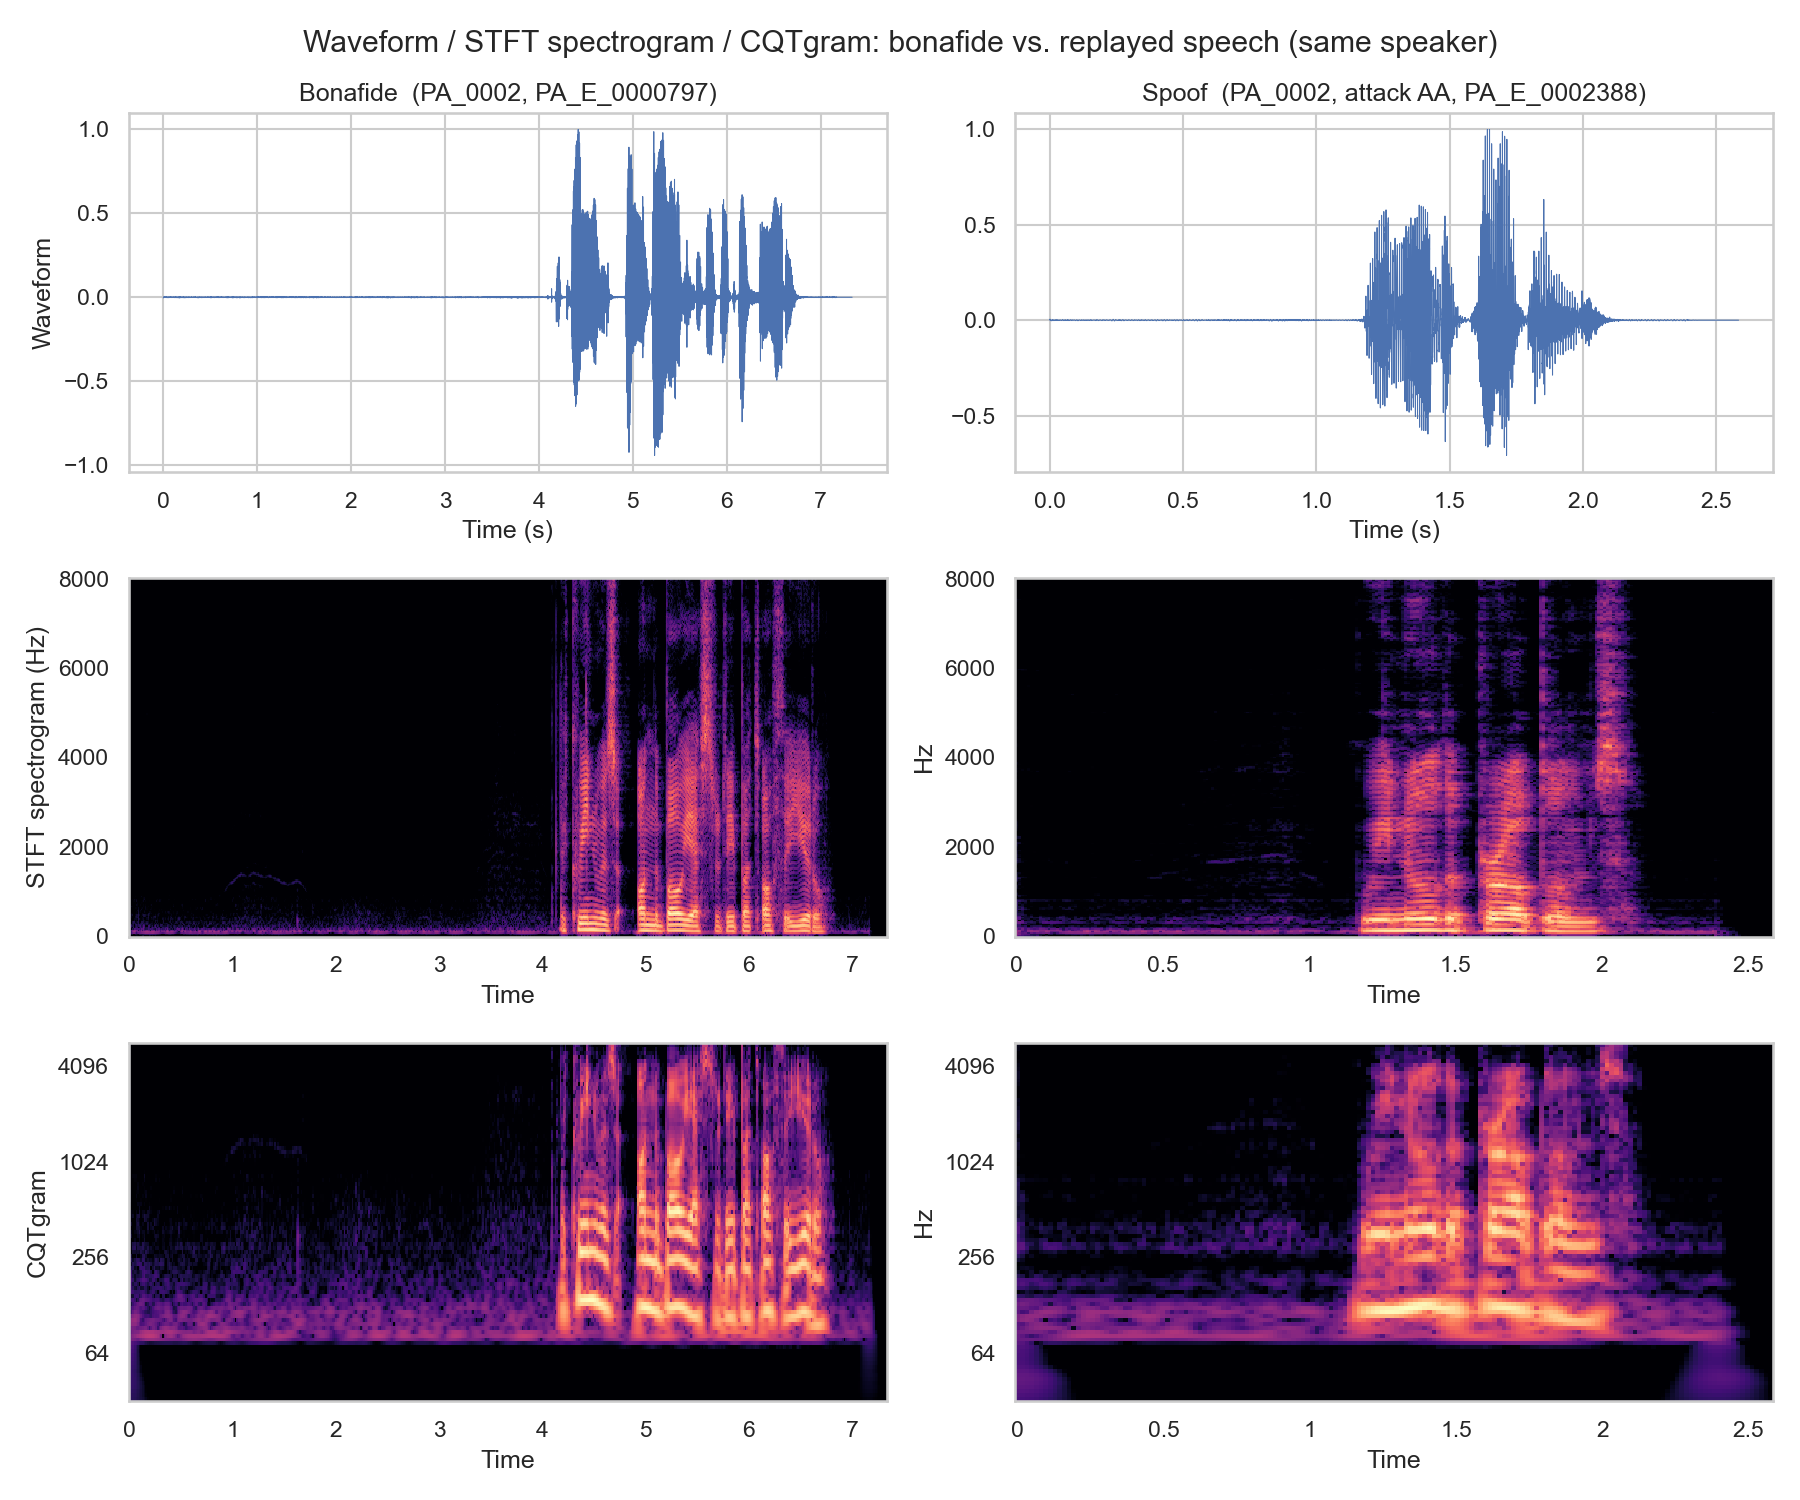
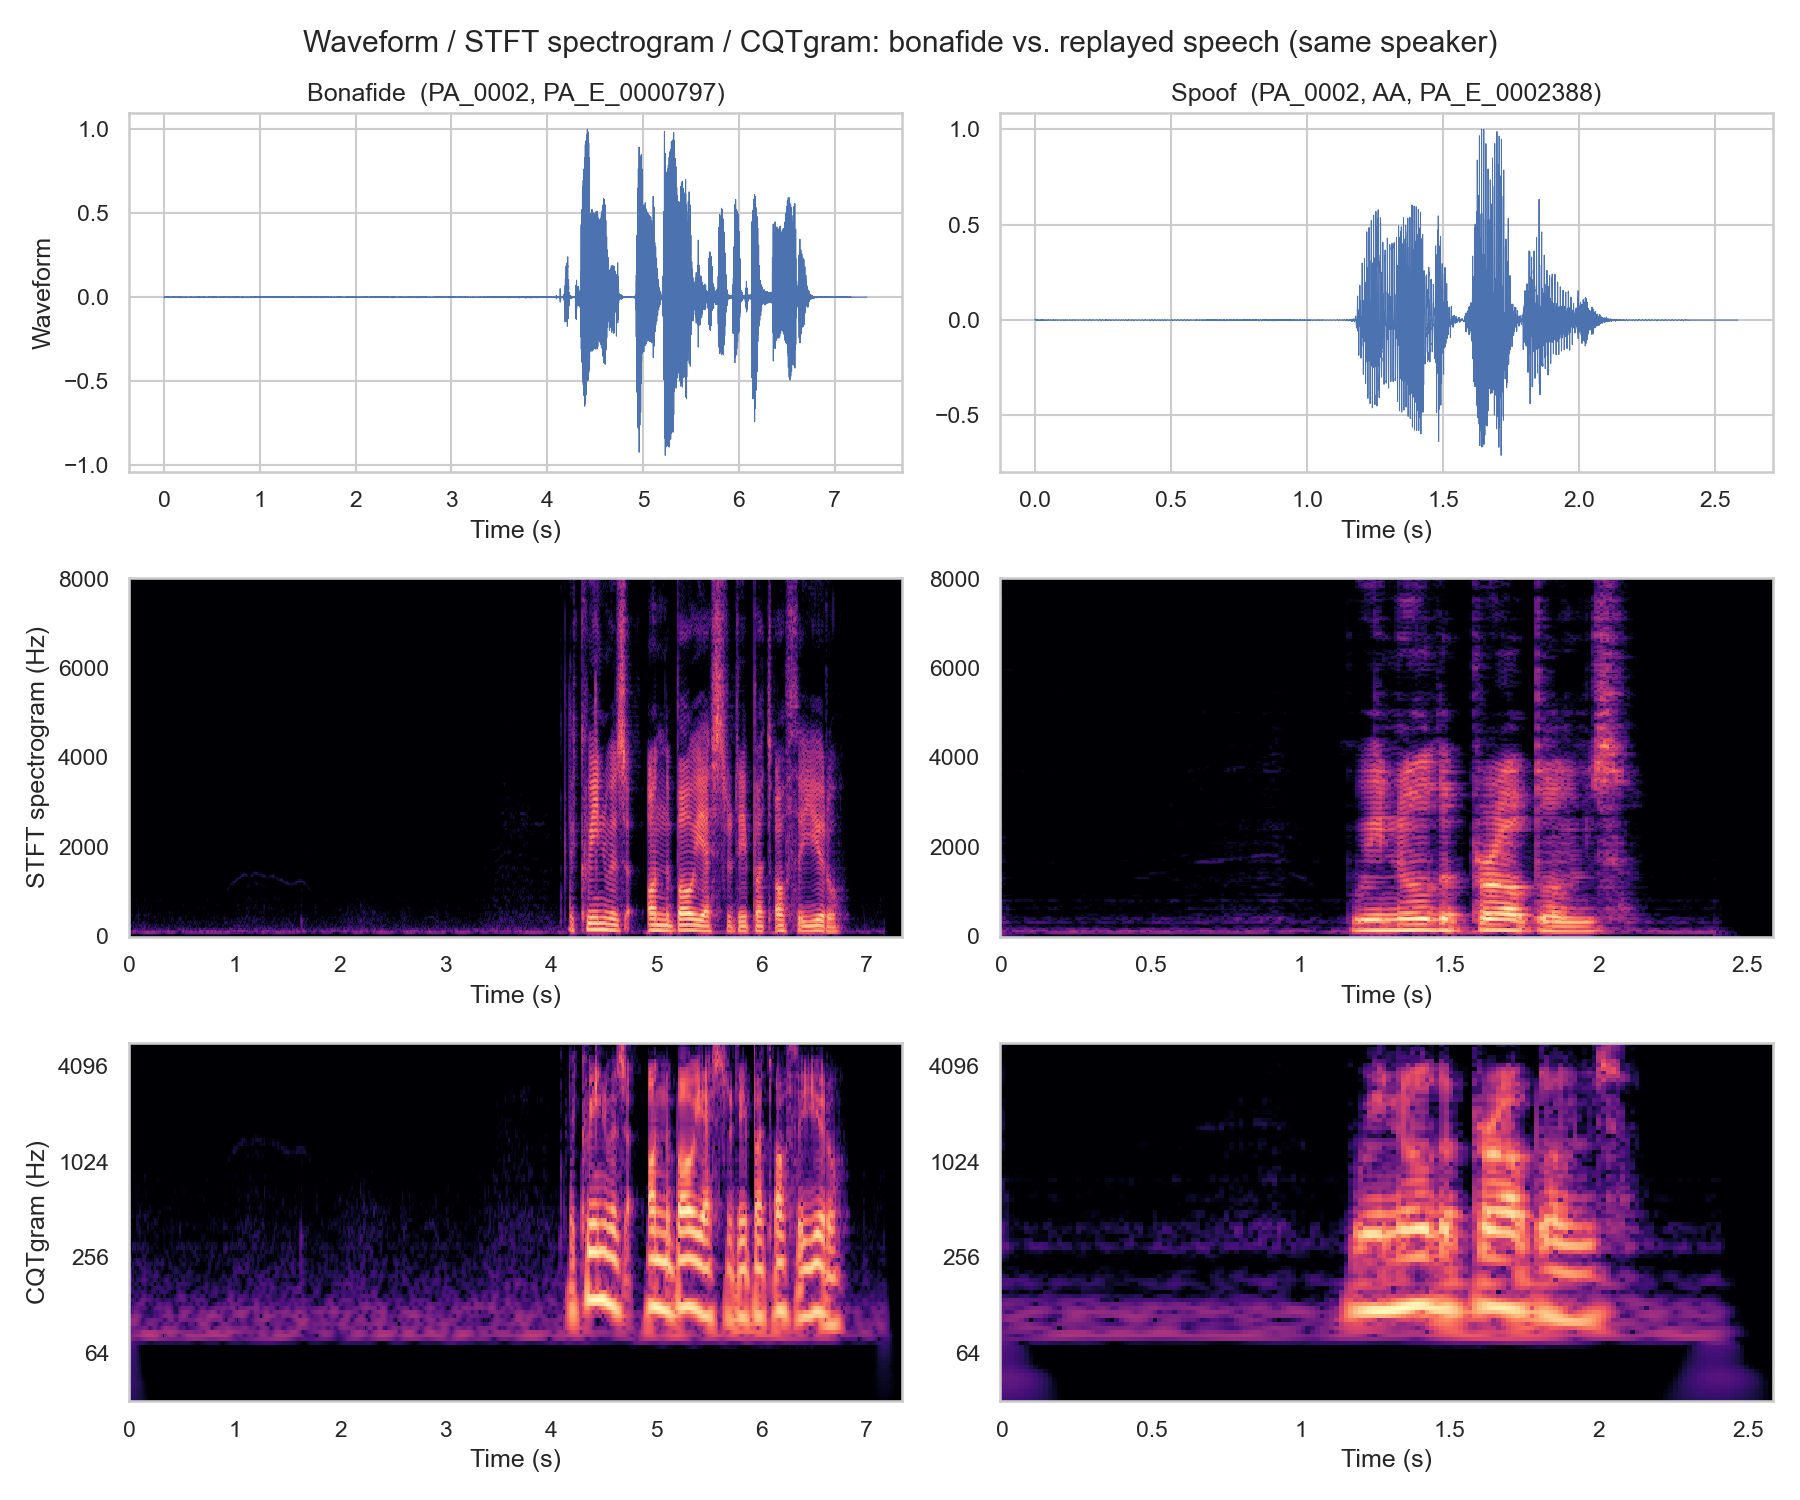
Serbian figures: axis labels librosa set itself, all nineteen comparisons back
librosa.display.specshow writes its own axis labels, in English ("Time", "Hz"), so
the first Serbian pass shipped English x axes on every spectrogram panel without
anyone having typed them. Each specshow call in eda.py is now followed by an
explicit relabel, and each unit is named once, on the left column: the second "Hz"
between two paired panels only repeated it. The CQT rows say what they show
("CQT спектрограм (Hz)") instead of a bare unit.

12_paired_differences shows all nineteen comparisons again. The previous commit cut
it to the nine pre-registered ones to keep the protocol separation; that dropped
every post-hoc comparison, including the three whose intervals span zero. They are
back, grouped instead of cut: the nine pre-registered first under a bold header, the
ten post-hoc below a rule. Post-hoc labels name systems by tag where the tag is
exact.

The CI forest gives the three fused systems the names the results chapter's fusion
table uses; the longest of them widened the margin enough that the Serbian legend
ran over the top interval, so the legend's counts drop their repeated unit.

eda.py --lang sr now mirrors its figures into the Serbian write-up's slike/, the way
plot_thesis already did. English canonical copies of 04, 05 and 12 are regenerated,
since the label and grouping changes apply to both languages.

diff --git a/src/plot_thesis.py b/src/plot_thesis.py
@@ -85,12 +85,16 @@ SR = {
     " chance": " случајно",
     # confidence intervals
     "EER (%) with 95% confidence interval": "EER (%) са 95% интервалом поверења",
-    "speaker-clustered (67 speakers)": "груписано по говорницима (67 говорника)",
-    "trial-level (721,332 trials)": "на нивоу покушаја (721.332 покушаја)",
+    # Kept short: at full length these ran over the top rows of the CI forest, and
+    # the unit of each count is already named by the word before it.
+    "speaker-clustered (67 speakers)": "груписано по говорницима (67)",
+    "trial-level (721,332 trials)": "на нивоу покушаја (721.332)",
     "paired difference in EER (percentage points), 95% CI":
         "упарена разлика у EER (процентни поени), 95% CI",
     "excludes zero": "искључује нулу",
     "spans zero": "обухвата нулу",
+    "pre-registered comparisons": "унапред пријављена поређења",
+    "post-hoc comparisons": "накнадна поређења",
     # hidden tracks
     "real replay\n(matched D4/d4)": "стварна репродукција\n(упарено D4/d4)",
     "simulated replay": "симулирана репродукција",
@@ -375,6 +379,20 @@ def fig_dev_vs_target(out: Path) -> Path:
     return _save(fig, out, "10_dev_vs_2021.png")
 
 
+# The fused systems' internal tags mean nothing to a reader of the Serbian text, so
+# they take the names the fusion table in the results chapter uses. Every other
+# system tag stays as it is.
+SR_SYSTEM_NAMES = {
+    "inhouse_fusion_progress": "сопствена фузија, на ознакама",
+    "inhouse_fusion_dev": "сопствена фузија, без ознака",
+    "fusion_ours+2GMM": "фузија са два званична референтна система",
+}
+
+
+def _sysname(tag: str) -> str:
+    return SR_SYSTEM_NAMES.get(tag, tag) if LANG == "sr" else tag
+
+
 def fig_ci_forest(out: Path) -> Path:
     """Speaker-clustered intervals against the conventional trial-level ones."""
     d = pd.read_csv(POSTHOC / "bootstrap_ci_systems.csv")
@@ -397,7 +415,7 @@ def fig_ci_forest(out: Path) -> Path:
 
     ax.axvline(50, color=C_ZERO, linestyle=":", linewidth=1.0)
     ax.text(50, -0.75, _t(" chance"), color=C_ZERO, fontsize=7, va="center")
-    ax.set_yticks(y, order, fontsize=7.5)
+    ax.set_yticks(y, [_sysname(s) for s in order], fontsize=7.5)
     ax.invert_yaxis()
     ax.set_xlabel(_t("EER (%) with 95% confidence interval"))
     ax.grid(axis="x", **GRID)
@@ -408,11 +426,12 @@ def fig_ci_forest(out: Path) -> Path:
     return _save(fig, out, "11_ci_forest.png")
 
 
-# The nine comparisons fixed in writing before the held-out set was scored, with a
-# short label for each. The figure is referenced from the pre-registered section, so
-# it shows only these: folding the post-hoc differences in beside them would blur the
-# separation the whole evaluation protocol rests on. Their numbers are quoted in the
-# post-hoc prose instead.
+# Every paired comparison, each with a Serbian label. The nine fixed in writing before
+# the held-out set was scored are drawn first under their own header and the post-hoc
+# ones below a rule, which keeps all of them on one axis without blurring the
+# separation the evaluation protocol rests on. Post-hoc labels name systems by tag
+# where the tag is exact: timepool_T150_aug is the best post-hoc single system,
+# flatten_T400 the pre-registered primary, CQCC-GMM the strongest official baseline.
 REGISTERED_COMPARISONS = {
     "central claim: CQT-LCNN vs MFCC-SVM":
         "средишња тврдња: CQT-LCNN и MFCC-SVM",
@@ -433,29 +452,68 @@ REGISTERED_COMPARISONS = {
     "pred 3: CMVN transfers better":
         "предвиђање 3: CMVN",
 }
+POSTHOC_COMPARISONS = {
+    "in-house zero-shot fusion vs best official baseline (NOT circular)":
+        "сопствена фузија без ознака и CQCC-GMM",
+    "post-hoc: vs pre-registered primary":
+        "timepool_T150_aug и flatten_T400",
+    "post-hoc: vs best official baseline":
+        "timepool_T150_aug и CQCC-GMM",
+    "post-hoc: vs parent (T150, no augmentation)":
+        "timepool_T150_aug и T150",
+    "in-house fusion (label-fitted): vs the single system":
+        "сопствена фузија на ознакама и појединачни",
+    "in-house ZERO-SHOT fusion: vs the single system":
+        "сопствена фузија без ознака и појединачни",
+    "post-hoc fusion: vs the single system it contains":
+        "фузија са два званична референтна и појединачни",
+    "post-hoc: new best vs previous best":
+        "timepool_T150_aug и flatten_T400_aug",
+    "in-house zero-shot vs the borrowed-partner fusion":
+        "сопствена и позајмљена фузија",
+    "the price of 87,048 labelled target-domain trials":
+        "цена 87.048 означених циљних покушаја",
+}
 
 
 def fig_paired_differences(out: Path) -> Path:
     """Every declared comparison as the CI of the paired difference."""
     d = pd.read_csv(POSTHOC / "bootstrap_ci_comparisons.csv")
-    d = d[d["scheme"] == "speaker-clustered"].copy()
-    d = d[d["comparison"].isin(REGISTERED_COMPARISONS)]
-    d = d.sort_values("eer_diff").reset_index(drop=True)
+    d = d[d["scheme"] == "speaker-clustered"]
+    names = {**REGISTERED_COMPARISONS, **POSTHOC_COMPARISONS}
+    unknown = set(d["comparison"]) - set(names)
+    assert not unknown, f"comparison(s) without a label: {sorted(unknown)}"
 
-    fig, ax = plt.subplots(figsize=(6.6, 0.36 * len(d) + 1.4))
-    for i, r in d.iterrows():
+    reg = d[d["comparison"].isin(REGISTERED_COMPARISONS)].sort_values("eer_diff")
+    post = d[d["comparison"].isin(POSTHOC_COMPARISONS)].sort_values("eer_diff")
+    rows = ([("head", _t("pre-registered comparisons"))]
+            + [("cmp", r) for _, r in reg.iterrows()]
+            + [("head", _t("post-hoc comparisons"))]
+            + [("cmp", r) for _, r in post.iterrows()])
+
+    fig, ax = plt.subplots(figsize=(6.8, 0.30 * len(rows) + 1.2))
+    labels = []
+    for i, (kind, r) in enumerate(rows):
+        if kind == "head":
+            labels.append(r)
+            if i:
+                ax.axhline(i - 0.5, color="#b5b5b5", linewidth=0.7, zorder=1)
+            continue
         sig = bool(r["eer_excludes_zero"])
         col = C_OURS if sig else C_OFFICIAL
         ax.plot([r["eer_lo"], r["eer_hi"]], [i, i], color=col, linewidth=2.4,
                 solid_capstyle="round", zorder=2)
         ax.scatter(r["eer_diff"], i, color="white", edgecolor=col, s=22,
                    linewidth=1.1, zorder=3)
+        labels.append(names[r["comparison"]] if LANG == "sr" else r["comparison"])
     ax.axvline(0, color=C_ZERO, linewidth=1.1, zorder=1)
 
-    labels = [REGISTERED_COMPARISONS[c] if LANG == "sr" else c
-              for c in d["comparison"]]
-    ax.set_yticks(np.arange(len(d)), labels, fontsize=7.5)
-    ax.invert_yaxis()
+    ax.set_yticks(np.arange(len(rows)), labels, fontsize=7.5)
+    for tick, (kind, _) in zip(ax.get_yticklabels(), rows):
+        if kind == "head":
+            tick.set_fontweight("bold")
+    ax.tick_params(axis="y", length=0)
+    ax.set_ylim(len(rows) - 0.5, -0.5)
     ax.set_xlabel(_t("paired difference in EER (percentage points), 95% CI"))
     ax.grid(axis="x", **GRID)
     ax.plot([], [], color=C_OURS, linewidth=2.4, label=_t("excludes zero"))

diff --git a/src/eda.py b/src/eda.py
@@ -13,6 +13,7 @@ from __future__ import annotations
 
 import argparse
 import random
+import shutil
 import sys
 
 import librosa
@@ -28,6 +29,7 @@ from . import config, resplit
 
 EDA_DIR = config.PROJECT_ROOT / "EDA"
 EDA_DIR.mkdir(parents=True, exist_ok=True)
+SLIKE_SR_DIR = config.PROJECT_ROOT / "Diplomski rad" / "slike"
 
 sns.set_theme(style="whitegrid")
 RNG_SEED = config.RANDOM_SEED
@@ -44,7 +46,7 @@ SR = {
     "Time (s)": "време (s)",
     "Waveform": "сигнал у временском домену",
     "STFT spectrogram (Hz)": "STFT спектрограм (Hz)",
-    "CQTgram": "CQT спектрограм",
+    "CQTgram (Hz)": "CQT спектрограм (Hz)",
     "MFCC coefficient": "MFCC коефицијент",
     "Bonafide": "истински",
     "Spoof": "лажиран",
@@ -291,8 +293,6 @@ def plot_waveform_spectrogram_cqt(bonafide_row, spoof_row):
             stft_db, sr=config.SAMPLE_RATE, hop_length=config.MFCC_HOP_LENGTH,
             x_axis="time", y_axis="hz", ax=axes[1, col],
         )
-        if col == 0:
-            axes[1, col].set_ylabel(_t("STFT spectrogram (Hz)"))
 
         cqt = librosa.cqt(
             y, sr=config.SAMPLE_RATE, hop_length=config.CQT_HOP_LENGTH,
@@ -303,8 +303,13 @@ def plot_waveform_spectrogram_cqt(bonafide_row, spoof_row):
             cqt_db, sr=config.SAMPLE_RATE, hop_length=config.CQT_HOP_LENGTH,
             x_axis="time", y_axis="cqt_hz", bins_per_octave=config.CQT_BINS_PER_OCTAVE, ax=axes[2, col],
         )
-        if col == 0:
-            axes[2, col].set_ylabel(_t("CQTgram"))
+        # specshow writes its own axis labels, in English ("Time", "Hz"), so both are
+        # set again here. Each unit is named once, on the left: a second "Hz" on the
+        # right column only sits between the two panels repeating it.
+        for row in (1, 2):
+            axes[row, col].set_xlabel(_t("Time (s)"))
+        axes[1, col].set_ylabel(_t("STFT spectrogram (Hz)") if col == 0 else "")
+        axes[2, col].set_ylabel(_t("CQTgram (Hz)") if col == 0 else "")
 
     # No suptitle in Serbian: the Typst caption already names the figure, and a
     # sentence across the top only repeats it.
@@ -342,7 +347,6 @@ def plot_mfcc_vs_cqt(bonafide_row, spoof_row):
             f"{label}: MFCC ({config.N_MFCC} коефицијената)" if LANG == "sr"
             else f"{label}: MFCC ({config.N_MFCC} coeffs, z-scored per coeff for display)")
         axes[0, col].set_yticks(range(0, config.N_MFCC, 4))
-        axes[0, col].set_ylabel(_t("MFCC coefficient"))
 
         cqt = librosa.cqt(
             y, sr=config.SAMPLE_RATE, hop_length=config.CQT_HOP_LENGTH,
@@ -356,6 +360,13 @@ def plot_mfcc_vs_cqt(bonafide_row, spoof_row):
         axes[1, col].set_title(
             f"{label}: CQT ({config.CQT_N_BINS} опсега)" if LANG == "sr"
             else f"{label}: CQTgram ({config.CQT_N_BINS} bins)")
+        # As in the figure above: specshow's English labels are replaced, and each
+        # unit is named once, on the left column. The CQT row names the transform
+        # too, since "Hz" alone does not say what is being shown.
+        for row in (0, 1):
+            axes[row, col].set_xlabel(_t("Time (s)"))
+        axes[0, col].set_ylabel(_t("MFCC coefficient") if col == 0 else "")
+        axes[1, col].set_ylabel(_t("CQTgram (Hz)") if col == 0 else "")
 
     if LANG != "sr":
         fig.suptitle("MFCC vs. CQT: does the replay fingerprint survive the front-end?")
@@ -481,6 +492,14 @@ def main():
     if 7 in want:
         print("Plot 7/7: attack-condition distribution sanity check")
         plot_attack_condition_distribution(train_df, dev_df)
+
+    # The Serbian thesis builds from its own slike/ folder, so a --lang sr run puts
+    # its figures there too, the way plot_thesis does for the results figures.
+    if LANG == "sr" and SLIKE_SR_DIR.exists():
+        for n in sorted(want):
+            for p in sorted(EDA_DIR.glob(f"{n:02d}_*_srp.png")):
+                shutil.copyfile(p, SLIKE_SR_DIR / p.name)
+                print(f"  mirrored {p.name} -> {SLIKE_SR_DIR.parent.name}/slike/")
 
     print(f"\nAll EDA outputs written to {EDA_DIR}")
 
